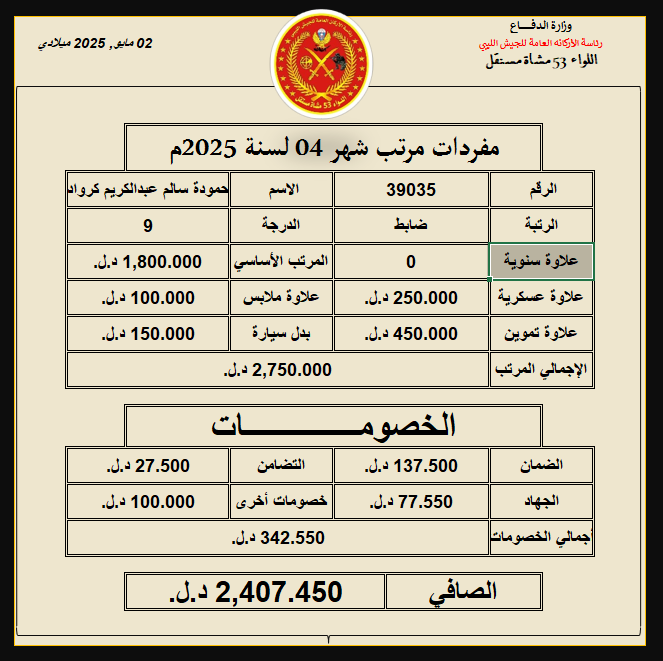
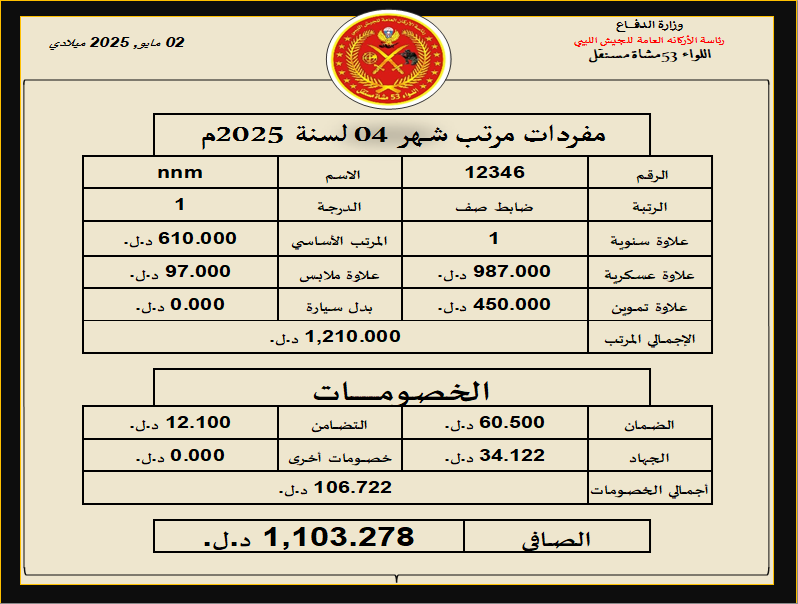
resolve some issues

Changed region(s): [[0.0, 0.0, 1.0, 1.0], [0.0603, 0.0596, 0.2413, 0.0894]]

diff --git a/send_salary_slips.py b/send_salary_slips.py
@@ -77,6 +77,7 @@ for index, row in df.iterrows():
     photo.Range("F10").Value = row["Military ID"]
     photo.Range("F12").Value = row["Rank"]
     photo.Range("F14").Value = row["Number of Increments"]
+    photo.Range("K12").Value = row["Degree"]
     photo.Range("K14").Value = row["Basic Salary"]
     photo.Range("F16").Value = row["Military Allowance"]
     photo.Range("K16").Value = row["Supply Allowance"]
@@ -92,6 +93,8 @@ for index, row in df.iterrows():
     photo.Range("K10").Value = row["Military Name"]
 
     photo.Activate()
+    time.sleep(0.5)
+    photo.Range("B2:O35").Select()
     time.sleep(0.5)
     photo.Range("B2:O35").CopyPicture(Format=win32.constants.xlPicture)
 
@@ -243,6 +246,8 @@ if failed_contacts:
 else:
     print("\n✅ All messages sent successfully.")
 
-
-driver.quit()
+time.sleep(5)
+wb.Close(False)
+excel.Quit()
+# driver.quit()
 print("✅ All slips sent.")
